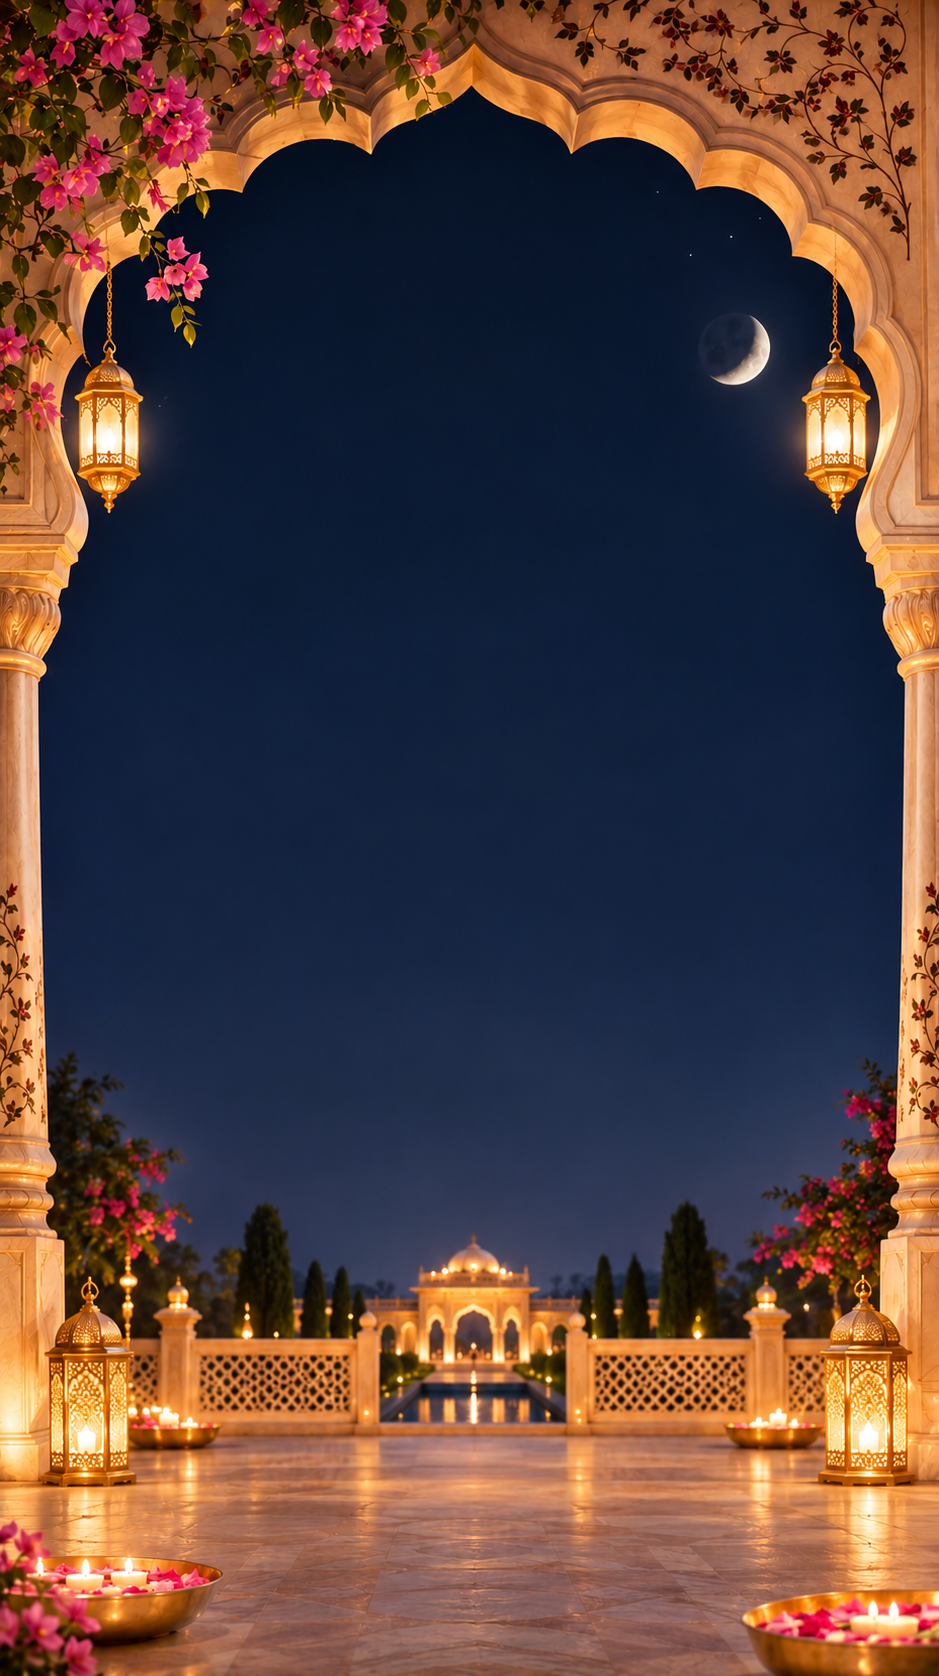
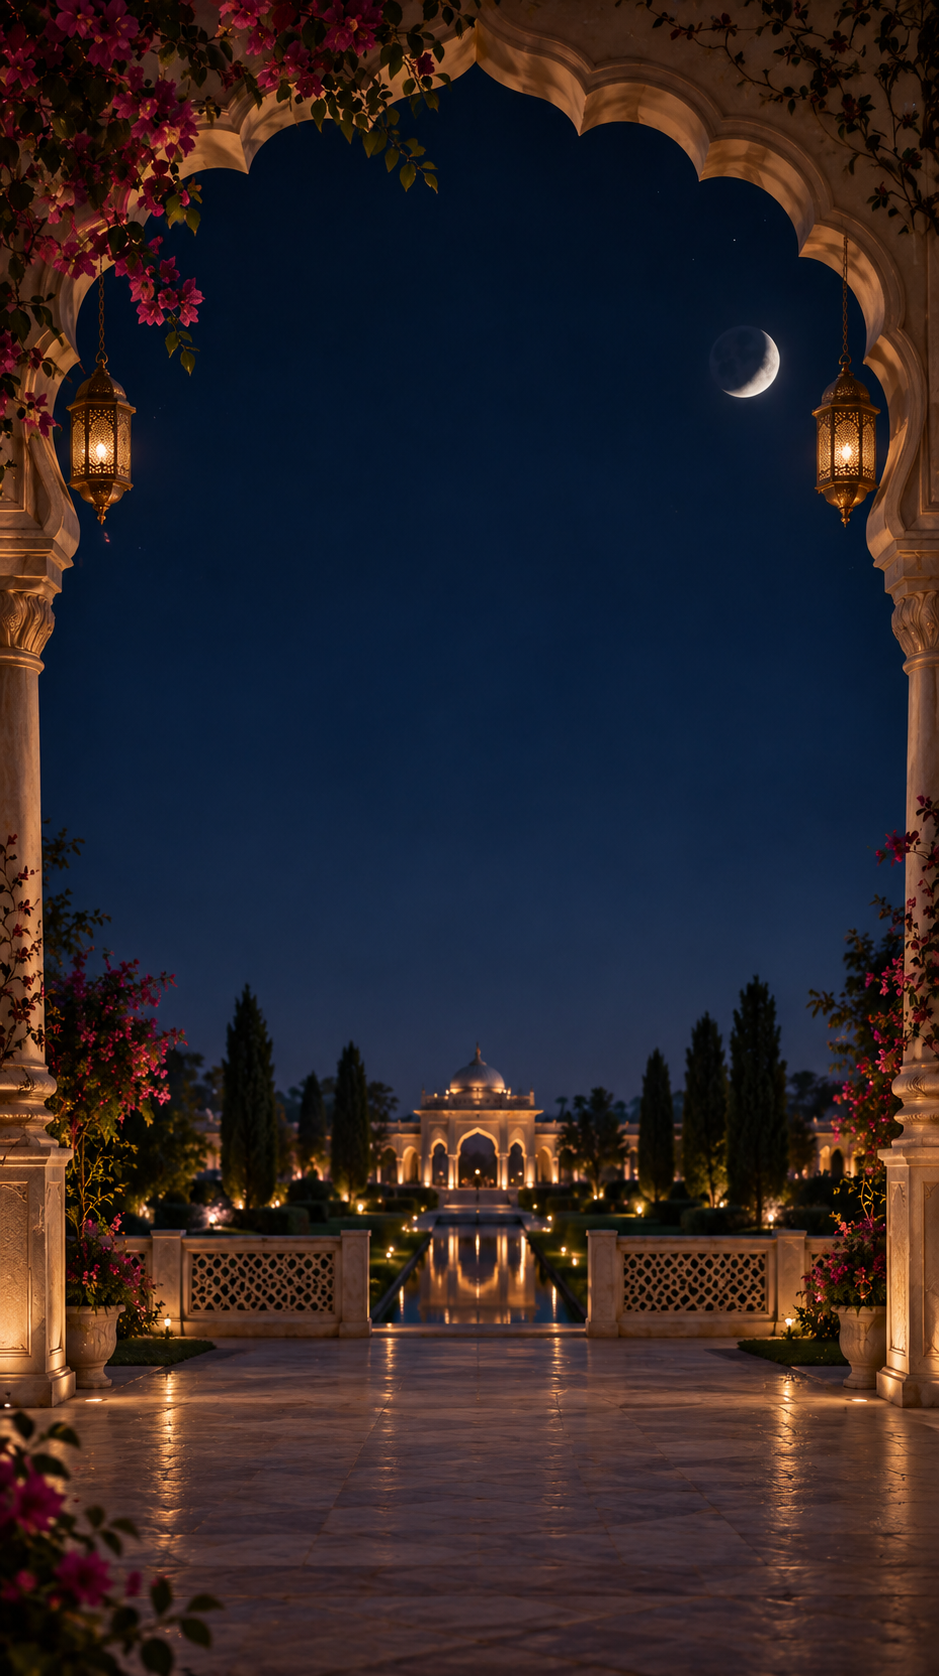
hey

diff --git a/src/templates/Tajmahal.css b/src/templates/Tajmahal.css
@@ -251,6 +251,24 @@
   background: #0b1930;
 }
 
+.tajmahal-template__fourth-page {
+  display: grid;
+  min-height: 100vh;
+  min-height: 100dvh;
+  place-items: center;
+  scroll-snap-align: start;
+  scroll-snap-stop: always;
+  overflow: hidden;
+  background: #0b1930;
+}
+
+.tajmahal-template__fourth-image {
+  display: block;
+  width: min(100vw, 56.25dvh);
+  height: min(100dvh, 177.7778vw);
+  object-fit: contain;
+}
+
 .tajmahal-template__countdown-canvas {
   position: relative;
   width: min(100vw, 56.25dvh);

diff --git a/src/templates/Tajmahal.tsx b/src/templates/Tajmahal.tsx
@@ -175,6 +175,9 @@ export default function Tajmahal() {
           </div>
         </div>
       </section>
+      <section className="tajmahal-template__fourth-page" data-invite-section="t17.scene4" aria-label="Wedding scene four">
+        <img className="tajmahal-template__fourth-image" src="/templates/tajmahal/assets/4.png" alt="" aria-hidden="true" />
+      </section>
     </main>
   );
 }
